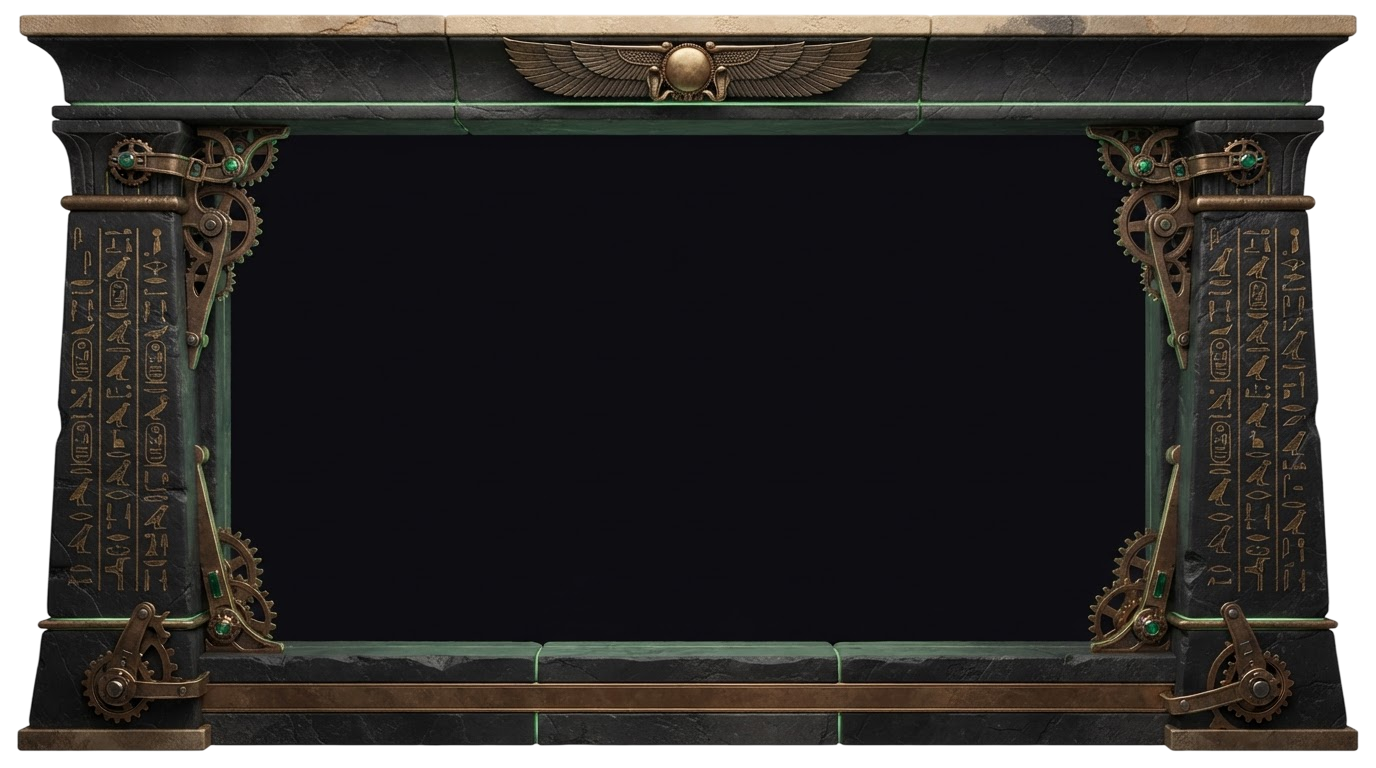
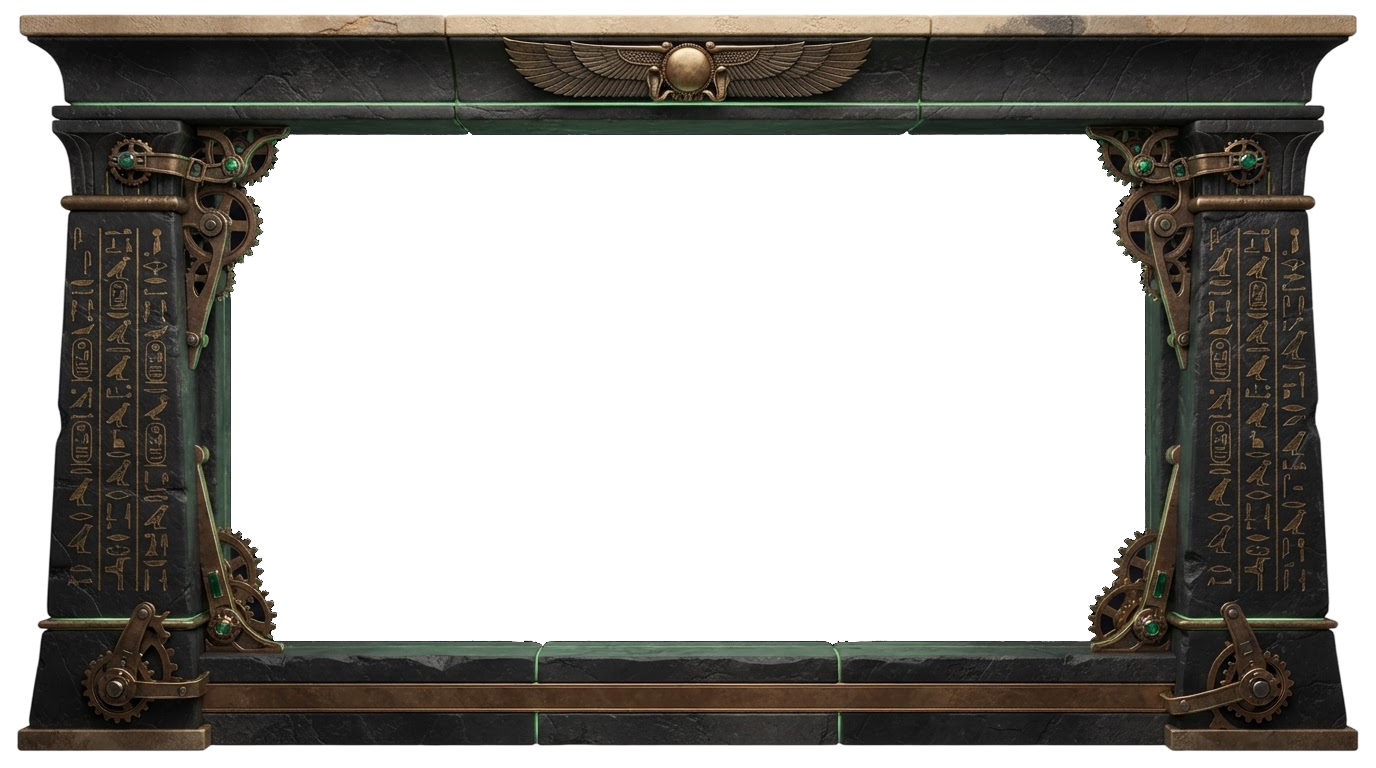
Seat the reels inside the stone housing
The housing's dark window is cut out of the art (its gear brackets kept)
and the housing now draws over the reels, reaching 8 px over their edges,
with a soft shadow just inside the window. The reels read as set into the
pylons, lintel and sill rather than floating in front of a dark panel.

diff --git a/Assets/RoyalVault/Unity/Views/MachineView.cs b/Assets/RoyalVault/Unity/Views/MachineView.cs
@@ -98,7 +98,6 @@ namespace RoyalVault.Unity
             }
 
             Vector2 windowSize = FitWindow();
-            BuildHousing(windowSize);
             BuildCells(windowSize);
             RectTransform fxBack = UiFactory.Rect("Symbol Light", transform, Vector2.zero, Vector2.zero);
             BuildReels(windowSize);
@@ -109,6 +108,7 @@ namespace RoyalVault.Unity
             nextGlint = Time.time + 2f;
             paylineLayer = UiFactory.Rect("Paylines", transform, Vector2.zero, ((RectTransform)transform).rect.size);
             BuildFrame(windowSize);
+            BuildHousing(windowSize);
         }
 
         // The largest cell that fits the reel area, and the window around the cells
@@ -150,7 +150,8 @@ namespace RoyalVault.Unity
             }
         }
 
-        // Stone housing behind the reels: its pylons, lintel and sill keep their size around a window that fits the cells
+        // Stone housing over the edges of the reels: a soft shadow just inside its window, then the pylons, lintel and sill,
+        // which keep their size and reach a little over the cells so the reels sit inside them
         private void BuildHousing(Vector2 windowSize)
         {
             if (theme.reelHousing == null)
@@ -158,12 +159,18 @@ namespace RoyalVault.Unity
                 return;
             }
 
-            Image housing = UiFactory.Image("Housing", transform, theme.reelHousing, windowCentre, windowSize);
+            Vector2 opening = windowSize - Vector2.one * (theme.housingOverlap * 2f);
+            if (theme.windowShadow != null)
+            {
+                Image shadow = UiFactory.Image("Window Shadow", transform, theme.windowShadow, windowCentre, opening);
+                shadow.type = Image.Type.Sliced;
+            }
+
+            Image housing = UiFactory.Image("Housing", transform, theme.reelHousing, windowCentre, opening);
             housing.type = Image.Type.Sliced;
             housing.pixelsPerUnitMultiplier = 1f / theme.housingBorderScale;
             Vector4 b = theme.reelHousing.border * theme.housingBorderScale; // left, bottom, right, top
-            const float margin = 10f;
-            housing.rectTransform.sizeDelta = windowSize + new Vector2(b.x + b.z + margin * 2f, b.y + b.w + margin * 2f);
+            housing.rectTransform.sizeDelta = opening + new Vector2(b.x + b.z, b.y + b.w);
             housing.rectTransform.anchoredPosition = windowCentre + new Vector2((b.z - b.x) * 0.5f, (b.w - b.y) * 0.5f);
         }
 

diff --git a/Assets/RoyalVault/Editor/RoyalVaultBuilder.Emerald.cs b/Assets/RoyalVault/Editor/RoyalVaultBuilder.Emerald.cs
@@ -27,6 +27,15 @@ namespace RoyalVault.EditorTools
             Write("emerald_plaque_edge", 128, 128, (x, y) => RoundedRect(x, y, 128, 128, 18f, Color.clear, new Color32(214, 170, 92, 255), 3f));
             Write("emerald_disc", 256, 256, EmeraldDiscPixel);
             Write("spin_wings", 512, 192, SpinWingsPixel);
+            Write("window_shadow", 64, 64, WindowShadowPixel);
+        }
+
+        // Dark at the edge, fading out over 24 pixels: 9-sliced inside the reel window
+        private static Color WindowShadowPixel(int x, int y)
+        {
+            float edge = Mathf.Min(Mathf.Min(x, 63 - x), Mathf.Min(y, 63 - y));
+            float t = 1f - Mathf.Clamp01(edge / 24f);
+            return new Color(0f, 0f, 0f, 0.6f * t * t);
         }
 
         // A dark emerald cell with a faint lighter edge, like the reel bands in the mockup
@@ -92,6 +101,9 @@ namespace RoyalVault.EditorTools
             EnsureSpriteBorder(ArtPath + "Emerald/Environment/reel_housing.png", new Vector4(231, 127, 231, 135));
             theme.reelHousing = Sprite("Emerald/Environment/reel_housing");
             theme.housingBorderScale = 1f;
+            theme.housingOverlap = 8f;
+            EnsureSpriteBorder(Generated + "window_shadow.png", new Vector4(24, 24, 24, 24));
+            theme.windowShadow = Sprite("Generated/window_shadow");
             theme.reelCell = Sprite("Generated/emerald_cell");
             theme.niche = null;
             theme.consoleBar = Sprite("Generated/emerald_bar");
@@ -130,6 +142,7 @@ namespace RoyalVault.EditorTools
         private static void SetArtDecoLayout(ThemeDefinition theme)
         {
             theme.reelHousing = null;
+            theme.windowShadow = null;
             theme.gold = new Color32(232, 199, 122, 255);
             theme.paleGold = new Color32(255, 231, 166, 255);
             theme.ivory = new Color32(243, 233, 210, 255);

diff --git a/Assets/RoyalVault/Unity/Data/ThemeDefinition.cs b/Assets/RoyalVault/Unity/Data/ThemeDefinition.cs
@@ -58,8 +58,10 @@ namespace RoyalVault.Unity
         public Sprite reelCell;
         public Sprite logo;
         public Sprite niche;
-        [Tooltip("Stone housing drawn behind the reels (9-sliced around the window), used instead of a frame over them")] public Sprite reelHousing;
+        [Tooltip("Stone housing with an open window, drawn over the edges of the reels (9-sliced around the window)")] public Sprite reelHousing;
         [Tooltip("How large the housing's 9-slice borders draw (1 = the art's own pixels)")] public float housingBorderScale = 1f;
+        [Tooltip("How far the housing reaches over the edge of the reels, in canvas pixels, so they sit inside it")] public float housingOverlap = 8f;
+        [Tooltip("Soft shadow just inside the reel window (9-sliced), so the reels look set back into the housing")] public Sprite windowShadow;
         [Tooltip("Optional guardian character (licensed art may be missing in a public checkout)")] public Sprite character;
         [Tooltip("Where the character's magic burns, as a share of its art (0,0 = bottom left)")] public Vector2 characterEffectAnchor = new Vector2(0.89f, 0.837f);
         [Tooltip("Optional baked animation for the character; without it the still art breathes procedurally")] public CharacterAnimation characterAnimation;
